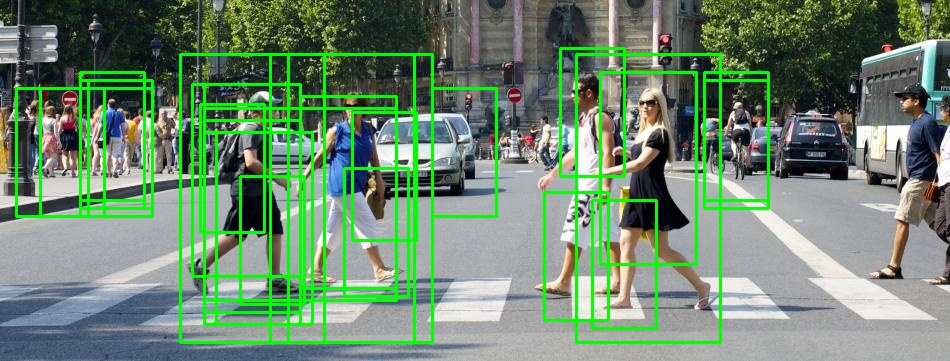
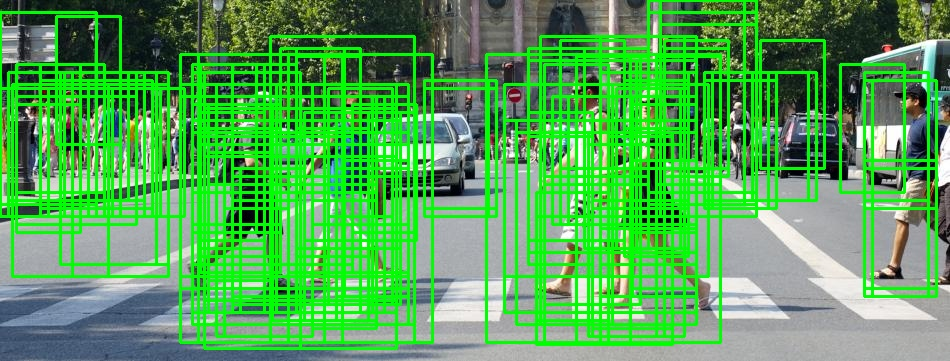
PCA final

diff --git a/detectmulti.py b/detectmulti.py
@@ -22,8 +22,10 @@ parser.add_argument('-w', '--winstride', help="Pixels to move in one step, in an
 parser.add_argument('-n', '--nms_threshold', help="Threshold Values between 0 to 1 for NMS thresholding. Default is 0.2", default=0.2, type=float)
 args = vars(parser.parse_args())
 
-clf = joblib.load("person_final.pkl")
-
+#this line to choose
+NAME = 'pca_200_80'
+clf = joblib.load("person_final_200_80.pkl")
+pca = joblib.load("pca_200_80.pkl")
 orig = cv2.imread(args["image"])
 
 img = orig.copy()
@@ -41,12 +43,12 @@ h, w = gray.shape
 count = 0
 while (h >= 128 and w >= 64):
 
-    print(gray.shape)
+    # print(gray.shape)
 
     h, w = gray.shape
     horiz = w - 64
     vert = h - 128
-    print(horiz, vert)
+    # print(horiz, vert)
     i = 0
     j = 0
     while i < vert:
@@ -55,8 +57,9 @@ while (h >= 128 and w >= 64):
 
             portion = gray[i:i + winSize[0], j:j + winSize[1]]
             features = hog(portion, orientations=9, pixels_per_cell=(8, 8), cells_per_block=(2, 2), block_norm="L2")
-            
-            result = clf.predict([features])
+            features = pca.transform(features.reshape(1, -1))
+            # print(features_pca.shape)
+            result = clf.predict(features)
 
             if args["visualize"]:
                 visual = gray.copy()
@@ -65,8 +68,8 @@ while (h >= 128 and w >= 64):
                 cv2.waitKey(1)
 
             if int(result[0]) == 1:
-                print(result, i, j)
-                confidence = clf.decision_function([features])
+                # print(result, i, j)
+                confidence = clf.decision_function(features)
                 appendRects(i, j, confidence, count, rects)
 
             j = j + winStride[0]
@@ -75,7 +78,7 @@ while (h >= 128 and w >= 64):
 
     gray = cv2.resize(gray, (int(w * inverse), int(h * inverse)), interpolation=cv2.INTER_AREA)
     count = count + 1
-    print(count)
+    # print(count)
 
 print(rects)
 
@@ -84,8 +87,8 @@ nms_rects = nms(rects, args["nms_threshold"])
 for (a, b, conf, c, d) in rects:
     cv2.rectangle(orig, (a, b), (a + c, b + d), (0, 255, 0), 2)
 
-cv2.imwrite('output_before_nms_image.jpg', orig)
+cv2.imwrite(NAME+'output_before_nms_image.jpg', orig)
 for (a, b, conf, c, d) in nms_rects:
     cv2.rectangle(img, (a, b), (a + c, b + d), (0, 255, 0), 2)
 
-cv2.imwrite('output_after_nms_image.jpg', img)
+cv2.imwrite(NAME+'output_after_nms_image.jpg', img)

diff --git a/train.py b/train.py
@@ -10,7 +10,7 @@ import argparse
 import random
 from sklearn.decomposition import PCA
 
-MAX_HARD_NEGATIVES = 20000
+MAX_HARD_NEGATIVES = 200
 PCA_N_COMPONENTS = 0.95
 parser = argparse.ArgumentParser(description='Parse Training Directory')
 parser.add_argument('--pos', help='Path to directory containing Positive Images')
@@ -192,7 +192,7 @@ X_array = np.array(X_flattened)
 clf1.fit(X_array, Y)
 print("Trained")
 
-joblib.dump(clf1, 'person_pre-eliminary.pkl')
+joblib.dump(clf1, 'person_pre_eliminary_200/20000.pkl')
 
 print("Hard Negative Mining")
 
@@ -205,7 +205,7 @@ hard_negatives, hard_negative_labels = hard_negative_mine(neg_img_files, winSize
 
 sys.stdout.write("\n")
 hard_negatives = np.array([hn.flatten() for hn in hard_negatives])
-hard_negatives = np.concatenate((hard_negatives, X), axis=0)
+hard_negatives = np.concatenate((hard_negatives, X_array), axis=0)
 hard_negative_labels = np.concatenate((hard_negative_labels, Y), axis=0)
 
 hard_negatives, hard_negative_labels = shuffle(hard_negatives, hard_negative_labels, random_state=0)
@@ -220,4 +220,4 @@ clf2.fit(hard_negatives_pca, hard_negative_labels)
 
 print("Trained and Dumping")
 
-joblib.dump(clf2, 'person_final.pkl')
+joblib.dump(clf2, 'person_final_200/20000.pkl')

diff --git a/nms.py b/nms.py
@@ -30,7 +30,7 @@ def overlapping_area(detection_1, detection_2):
     total_area = area_1 + area_2 - overlap_area
     return overlap_area / float(total_area)
 
-def nms(detections, threshold=0.5):
+def nms(detections, threshold=0.1):
     '''
     This function performs Non-Maxima Suppression.
     `detections` consists of a list of detections.

diff --git a/test.py b/test.py
@@ -22,7 +22,9 @@ total_neg_samples = 0
 
 def crop_centre(img):
     # print(len(img))
-    h, w, _ = img.shape
+    if not img:
+        return None
+    h, w = img.shape[0], img.shape[1]
     l = (w - 64) // 2
     t = (h - 128) // 2
     # print (h, w, l, t)
